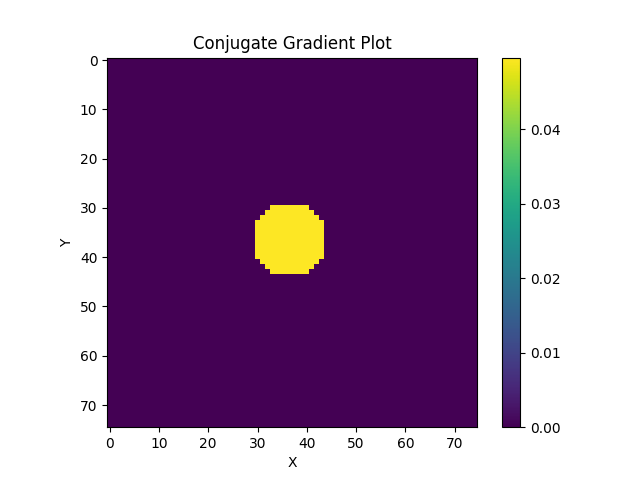
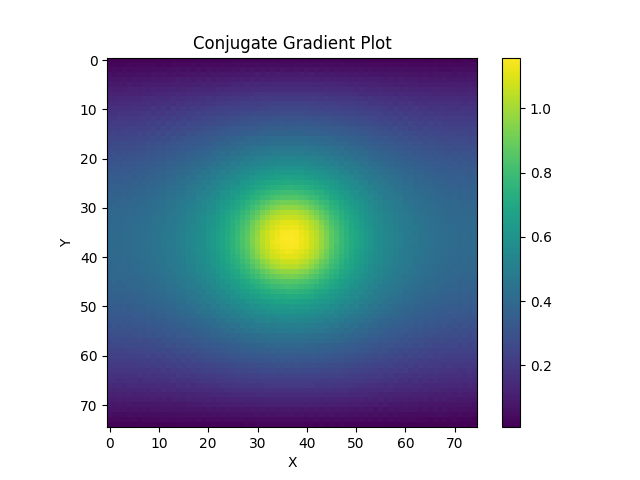
Scaling and additive functions for 1D vectors

diff --git a/milestone-1/conjugate_gradient.cpp b/milestone-1/conjugate_gradient.cpp
@@ -1,17 +1,11 @@
-#include <stdio.h>
-using namespace std;
-
 #include <iostream>
 using namespace std;
 
-#include <algorithm>
 #include <math.h>
-#include<assert.h>
 #include <fstream>
 
 #include <chrono>
 using namespace std::chrono;
-
 
 void write_to_file(double* result, string const& filename, int const& n_iter, int const& N) { 
     // Allocate memory for the file
@@ -75,39 +69,22 @@ void fill_b(double* b, int const& N) {
     }
 }
 
-void axpy(double* res, double const& a, double* const& x, int const& b, double* const& y, int const& N) {
-    // Perform res = a * x + b * y
-    int n = sqrt(N);
-    for (int i = 0; i < n; i++) {
-        for (int j = 0; j < n; j++) {
-            int idx = i*n + j;
-            res[idx] = a * x[idx] + b * y[idx];
-        }
-    }
-}
-
-double dot(double* const& x, double* const& y, int const& N) {
+double dotp(double* const& x, double* const& y, int const& N) {
     // Perform res = x * y
-    int n = sqrt(N);
     double res = 0.0;
-    for (int i = 0; i < n; i++) {
-        for (int j = 0; j < n; j++) {
-            int idx = i*n + j;
-            res += x[idx] * y[idx];
-        }
+    for (int i = 0; i < N; i++) {
+        res += x[i] * y[i];
     }
     return res;
 }
 
-double* poisson_on_the_fly(double* const& w, int const& N) {
+void poisson_on_the_fly(double* v, double* const& w, int const& N) {
     double t1 = 0.0;
     double t2 = 0.0;
     double t3 = 0.0;
     double t4 = 0.0;
     double t5 = 0.0;
     int n = sqrt(N);
-    double* res = new double[N];
-
     for (int i = 0; i < N; i++) {
         t3 = 4*w[i];
 
@@ -135,15 +112,26 @@ double* poisson_on_the_fly(double* const& w, int const& N) {
             t5 = w[i + n];
         }
 
-        res[i] = t3 - t1 - t2 - t4 - t5;
+        v[i] = t3 - t1 - t2 - t4 - t5;
     }
+}
 
-    return res;
+void vec_scale(double* v, double const& alpha, int const& N) {
+    for (int i = 0; i < N; i++) {
+        v[i] *= alpha;
+    }
+}
+
+void vec_add(double* output, double* const& v1, double* const& v2, int const& op, int const& N) {
+    for (int i = 0; i < N; i++) {
+        output[i] = v1[i] + op * v2[i];
+    }
 }
 
 void conjugate_gradient(double* const& b, double* x, int const& n) {
     // Initialize variables
     int N = n * n;
+
     // Tolerance for the solution to stop after convergence
     double tol = 1e-10;
 
@@ -151,43 +139,47 @@ void conjugate_gradient(double* const& b, double* x, int const& n) {
     write_to_file(b, "./output/b.txt", 0, N);
 
     double* r = new double[N];
-    // r = -Ax + b
-    double* Ax = poisson_on_the_fly(x, N);
-    axpy(r, -1.0, Ax, 1.0, b, N);
-
-
     double* p = new double[N];
+    double* z = new double[N];
+
+    // Temporary variables
+    double* Ax = new double[N]; 
+
+    // r = b - Ax
+    poisson_on_the_fly(Ax, x, N);
+    vec_add(r, b, Ax, -1.0, N);
+
+    // Free Ax since we wont use it after this
+    free(Ax);
+
     // p = r
     for (int i = 0; i < N; i++) {
         p[i] = r[i];
     }
-    
-    double* z = new double[N];    
 
     // rsold = rT * r
-    double rsold = dot(r, r, N);
+    double rsold = dotp(r, r, N);
 
-    // Run simulation loop
-    for (int i = 0; i < N; i++) {
-
+    for (int i = 1; i < N + 1; i++) {
         // Start timer
         auto ts = high_resolution_clock::now();
 
         // z = A*p
-        z = poisson_on_the_fly(p, N);
+        poisson_on_the_fly(z, p, N);
 
         // alpha = rsold / (p*z)
-        double alpha = rsold / dot(p, z, N);
+        double alpha = rsold / dotp(p, z, N);
 
         // x = x + alpha*p
-        axpy(x, 1.0, x, alpha, p, N);
-        
+        vec_scale(p, alpha, N);
+        vec_add(x, x, p, 1.0, N);
 
         // r = r - alpha*z
-        axpy(r, 1.0, r, -alpha, z, N);
-
+        vec_scale(z, alpha, N);
+        vec_add(r, r, z, -1.0, N);
+        
         // rsnew = rT*r
-        double rsnew = dot(r, r, N);
+        double rsnew = dotp(r, r, N);
 
         // If the residual is small enough, stop
         if (sqrt(rsnew) <= tol) {
@@ -196,9 +188,8 @@ void conjugate_gradient(double* const& b, double* x, int const& n) {
         }
 
         // p = r + rsnew / rsold * p
-        axpy(p, 1.0, r, rsnew/rsold, p, N);
-
-        rsold = rsnew;
+        vec_scale(p, rsnew / rsold, N);
+        vec_add(p, r, p, 1.0, N);
 
         // Stop timer
         auto te = high_resolution_clock::now();
@@ -207,6 +198,7 @@ void conjugate_gradient(double* const& b, double* x, int const& n) {
         auto duration = duration_cast<microseconds>(te - ts);
         cout << "Iteration: " << i << " - Grind Rate: " << int(1/(1e-6*duration.count())) << " iter/sec" << endl;
 
+        // For generating a movie
         // if (i % 100 == 0) {
         //     // Write solution to file
         //     char filename[100];
@@ -214,13 +206,11 @@ void conjugate_gradient(double* const& b, double* x, int const& n) {
         //     write_to_file(x, filename, i, N);
         // }
     }
-
     // Write solution to file
     write_to_file(x, "./output/x.txt", N, N);
 }
 
 int main(int argc, char** argv) {
-
     // Initialize variables
     int n = stoi(argv[1]);
     int N = n * n;
@@ -250,5 +240,4 @@ int main(int argc, char** argv) {
     // Print time taken
     auto duration = duration_cast<microseconds>(e - s);
     cout << "\nTime taken = " << 1e-6*duration.count() << " seconds" << endl;
-
 }
